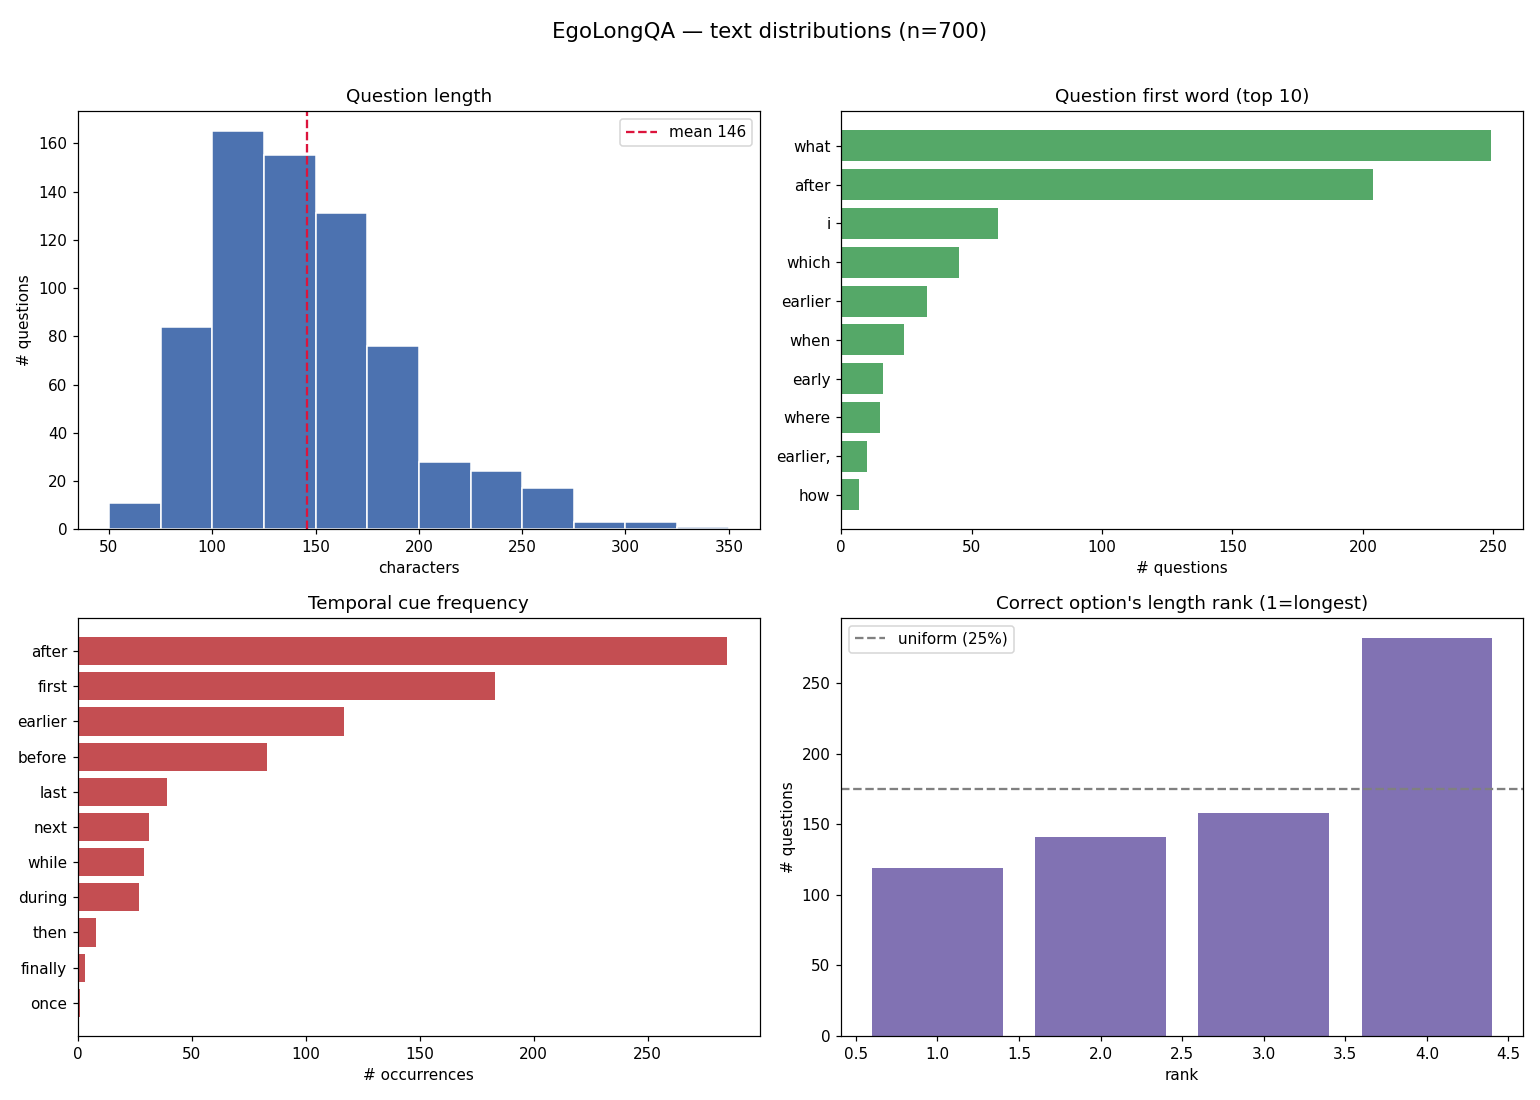
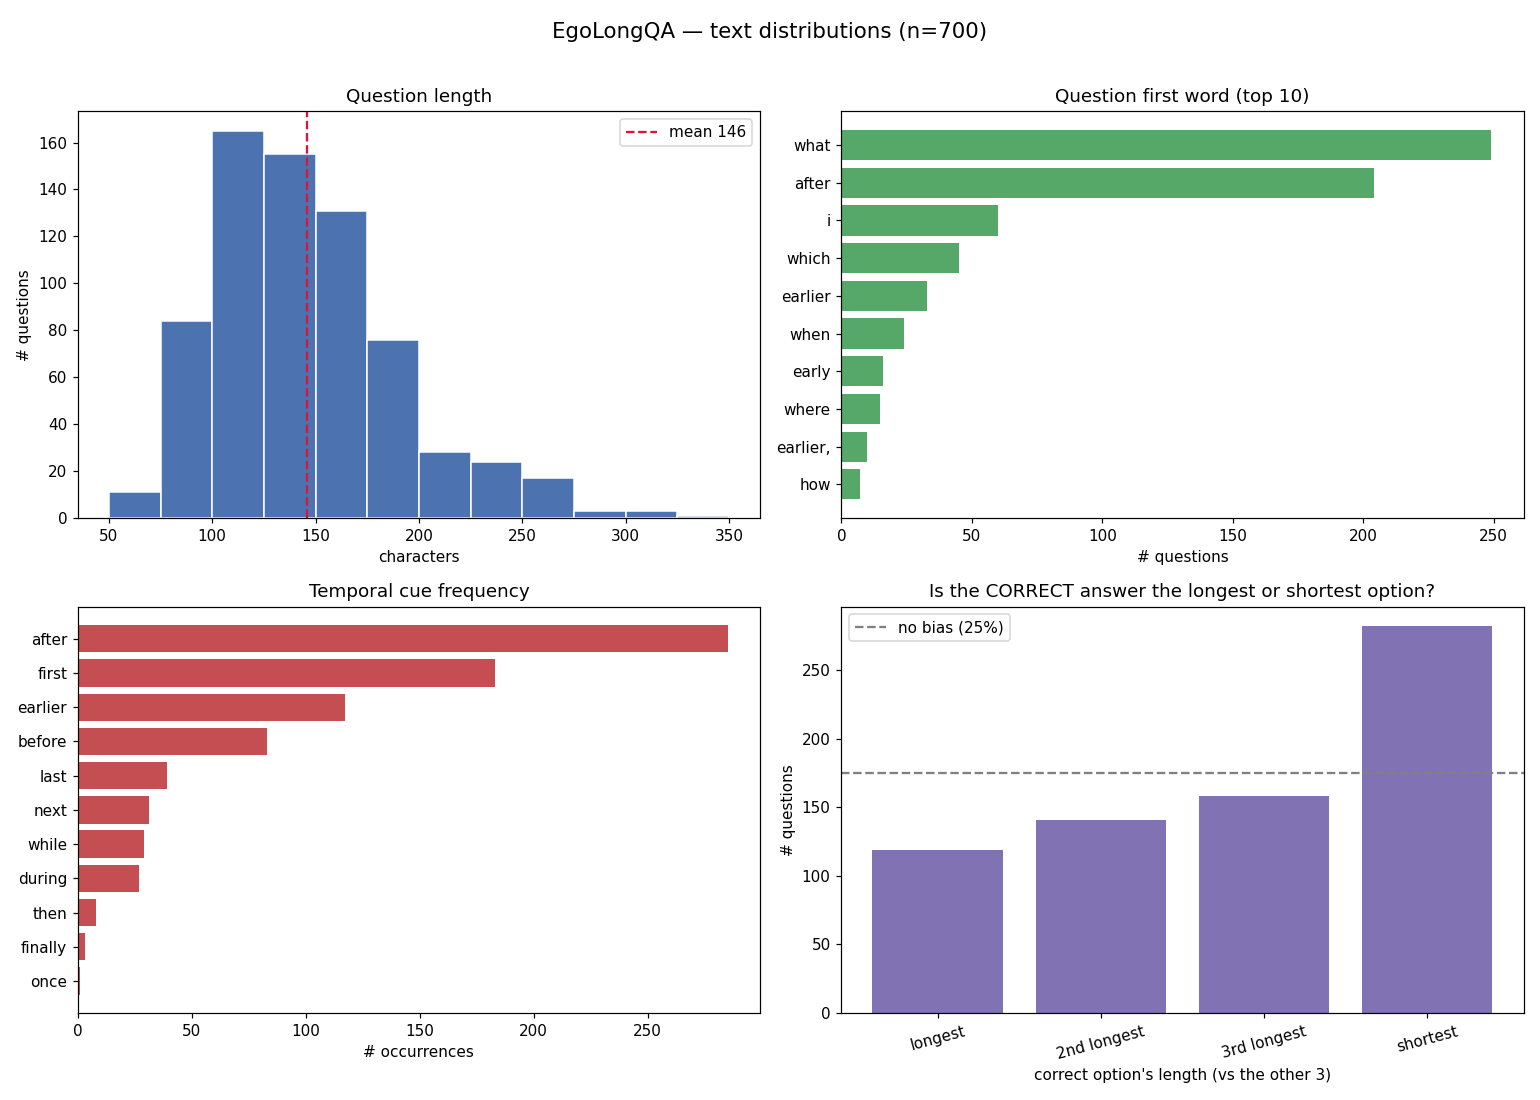
Relabel option-length rank as longest/2nd/3rd/shortest (chart + table)

diff --git a/scripts/eda_distributions.py b/scripts/eda_distributions.py
@@ -79,14 +79,18 @@ def main():
         if len(d)<2 or g not in d: continue
         order=sorted(d,key=lambda k:len(d[k]),reverse=True)  # longest first
         ranks.append(order.index(g)+1)
+    LABELS={1:"longest",2:"2nd longest",3:"3rd longest",4:"shortest"}
     rc=pd.Series(ranks).value_counts().sort_index()
-    rc.to_csv(OUT/"tables/dist_option_length_rank.csv",header=["count"])
-    print("\n=== 4. CORRECT-OPTION LENGTH RANK (1=longest) ===")
-    for k,n in rc.items(): print(f"  rank {k}: {n}  ({100*n/len(ranks):.1f}%)")
-    print(f"  (uniform over 4 options => 25% each; observed rank-1 = {100*rc.get(1,0)/len(ranks):.1f}%)")
-    ax=axes[1,1]; ax.bar(rc.index,rc.values,color="#8172B3")
-    ax.axhline(len(ranks)/4,color="gray",ls="--",label="uniform (25%)")
-    ax.set(title="Correct option's length rank (1=longest)",xlabel="rank",ylabel="# questions"); ax.legend()
+    rc_lab=rc.rename(index=LABELS); rc_lab.index.name="correct_option_length"
+    rc_lab.to_csv(OUT/"tables/dist_option_length_rank.csv",header=["count"])
+    print("\n=== 4. CORRECT ANSWER — is it the longest or shortest option? ===")
+    for k,n in rc.items(): print(f"  {LABELS[k]:<12}: {n}  ({100*n/len(ranks):.1f}%)")
+    print(f"  (uniform over 4 options => 25% each; SHORTEST = {100*rc.get(4,0)/len(ranks):.1f}%)")
+    ax=axes[1,1]; ax.bar([LABELS[i] for i in rc.index],rc.values,color="#8172B3")
+    ax.axhline(len(ranks)/4,color="gray",ls="--",label="no bias (25%)")
+    ax.set(title="Is the CORRECT answer the longest or shortest option?",
+           xlabel="correct option's length (vs the other 3)",ylabel="# questions"); ax.legend()
+    ax.tick_params(axis="x",labelrotation=15)
 
     # save
     for ax_name,ax in [("question_length",axes[0,0]),("first_words",axes[0,1]),
